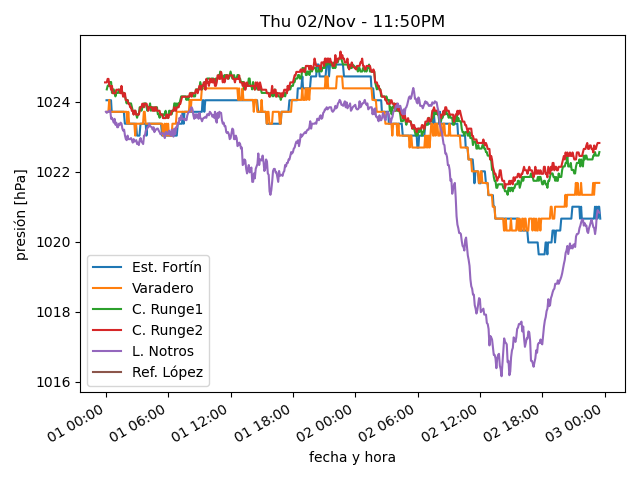
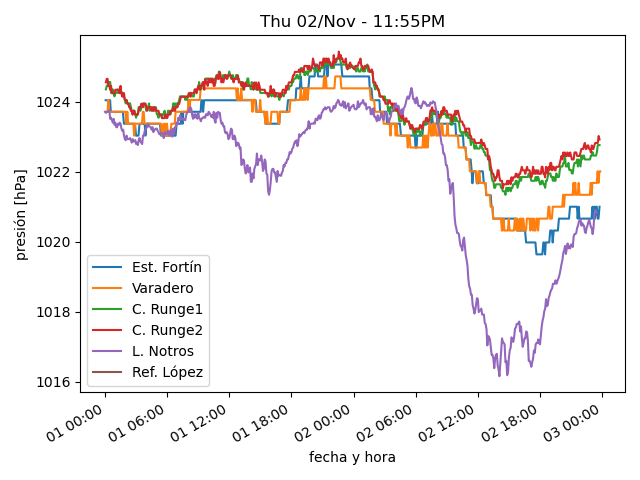
actualiza datos

diff --git a/estaciones/estacion2.html b/estaciones/estacion2.html
@@ -18,32 +18,32 @@
     </tr>
     <tr>
      <td class="stats_data">
-      11:29PM
+      11:49PM
      </td>
     </tr>
     <tr>
      <td class="stats_data">
-      8.9⁰C
+      8.7⁰C
      </td>
     </tr>
     <tr>
      <td class="stats_data">
-      4.2⁰C
+      2.7⁰C
      </td>
     </tr>
     <tr>
      <td class="stats_data">
-      72.7%
+      66.0%
      </td>
     </tr>
     <tr>
      <td class="stats_data">
-      1031.16hPa
+      1031.49hPa
      </td>
     </tr>
     <tr>
      <td class="stats_data">
-      20.9/26.0 km/hr WNW
+      15.5/20.3 km/hr WNW
      </td>
     </tr>
     <tr>

diff --git a/estaciones/estacion4.html b/estaciones/estacion4.html
@@ -18,32 +18,32 @@
     </tr>
     <tr>
      <td class="stats_data">
-      11:29PM
+      11:44PM
      </td>
     </tr>
     <tr>
      <td class="stats_data">
-      7.2⁰C
+      7.0⁰C
      </td>
     </tr>
     <tr>
      <td class="stats_data">
-      0.1⁰C
+      0.0⁰C
      </td>
     </tr>
     <tr>
      <td class="stats_data">
-      60.7%
+      61.0%
      </td>
     </tr>
     <tr>
      <td class="stats_data">
-      1019.81hPa
+      1019.91hPa
      </td>
     </tr>
     <tr>
      <td class="stats_data">
-      3.3/6.0 km/hr SSW
+      2.3/3.6 km/hr WSW
      </td>
     </tr>
     <tr>

diff --git a/estaciones/estacion3.html b/estaciones/estacion3.html
@@ -18,7 +18,7 @@
     </tr>
     <tr>
      <td class="stats_data">
-      11:29PM
+      11:44PM
      </td>
     </tr>
     <tr>
@@ -28,22 +28,22 @@
     </tr>
     <tr>
      <td class="stats_data">
-      1.0⁰C
+      0.9⁰C
      </td>
     </tr>
     <tr>
      <td class="stats_data">
-      63.6%
+      63.1%
      </td>
     </tr>
     <tr>
      <td class="stats_data">
-      1010.84hPa
+      1011.04hPa
      </td>
     </tr>
     <tr>
      <td class="stats_data">
-      8.7/13.0 km/hr WNW
+      9.0/12.2 km/hr WNW
      </td>
     </tr>
     <tr>

diff --git a/estaciones/estacion1.html b/estaciones/estacion1.html
@@ -18,7 +18,7 @@
     </tr>
     <tr>
      <td class="stats_data">
-      11:34PM
+      11:44PM
      </td>
     </tr>
     <tr>
@@ -38,12 +38,12 @@
     </tr>
     <tr>
      <td class="stats_data">
-      1020.66hPa
+      1021.0hPa
      </td>
     </tr>
     <tr>
      <td class="stats_data">
-      15.7/26.3 km/hr W
+      11.7/25.2 km/hr W
      </td>
     </tr>
     <tr>
